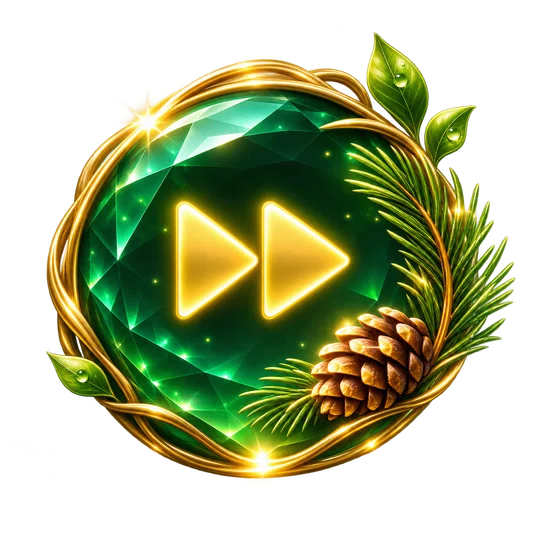
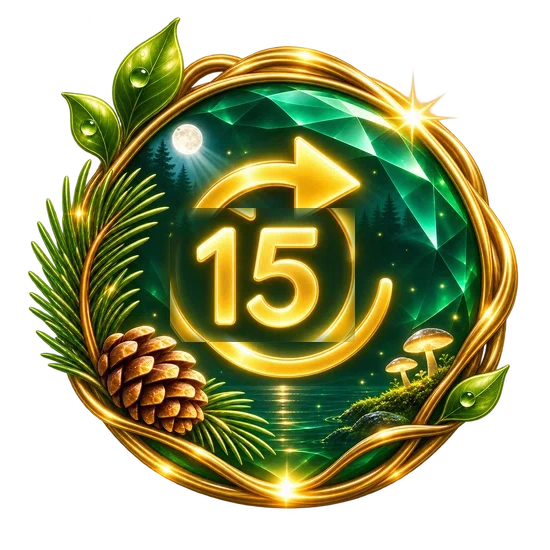
Add files via upload

diff --git a/index.html b/index.html
@@ -9,19 +9,20 @@
 <meta content="PineTree 有聲書" name="apple-mobile-web-app-title"/>
 <meta content="PineTree 有聲書 · 森夜閱讀、離線 MP3/LRC、iCloud Drive 手動同步" name="description"/>
 <link href="./manifest.webmanifest" rel="manifest"/>
-<link href="./apple-touch-icon.png?v=4310" rel="apple-touch-icon"/>
-<link href="./icon-192.png?v=4310" rel="icon"/>
-<link href="./styles.css?v=4310" rel="stylesheet"/>
-<link href="./phase3.css?v=4310" rel="stylesheet"/>
-<title>PineTree 有聲書 · v4.3.1 森夜閱讀藝術強化版</title>
+<link href="./apple-touch-icon.png?v=4320" rel="apple-touch-icon"/>
+<link href="./icon-192.png?v=4320" rel="icon"/>
+<link href="./styles.css?v=4320" rel="stylesheet"/>
+<link href="./phase3.css?v=4320" rel="stylesheet"/>
+<title>PineTree 有聲書 · v4.3.2 森夜閱讀版面與續播強化版</title>
 </head>
 <body>
 <div class="app-shell">
 <header class="topbar">
 <div class="brand">
-<div aria-hidden="true" class="brand-mark" id="brandMonogram"><img alt="" src="./apple-touch-icon.png?v=4310"/></div>
-<div class="brand-copy"><strong class="forest-brandname">PineTree <small>v4.3.1</small></strong><span>A U D I O B O O K <b>·</b> 森夜閱讀</span><strong class="visually-hidden" id="brandTitle">我的小说书库</strong></div>
+<div aria-hidden="true" class="brand-mark" id="brandMonogram"><img alt="" src="./apple-touch-icon.png?v=4320"/></div>
+<div class="brand-copy"><strong class="forest-brandname">PineTree <small>v4.3.2</small></strong><span>A U D I O B O O K <b>·</b> 森夜閱讀</span><strong class="visually-hidden" id="brandTitle">我的小说书库</strong></div>
 </div>
+<div class="forest-top-title" aria-hidden="true"><span class="forest-top-kicker">✦ P I N E T R E E ✦</span><strong>森 夜 閱 讀</strong><span class="forest-top-sub">F O R E S T · R E A D I N G</span></div>
 <nav aria-label="全局操作" class="header-actions">
 <span class="status-chip" id="networkBadge">● 准备就绪</span>
 <button aria-label="開啟森夜沉浸播放器" class="top-action im-enter-action" id="immersiveEnter" title="切換至森夜閱讀旗艦沉浸播放模式" type="button">✦ <span>森夜沉浸</span></button>
@@ -115,7 +116,7 @@
 </div>
 <div class="player-bottom">
 <div aria-hidden="true" class="theme-particles" id="themeParticles"></div>
-<div class="listen-extras"><button class="tiny-action" disabled="" id="bookmarkAdd" title="收藏目前時間及文字" type="button">收藏此句</button><button class="tiny-action" id="bookmarkOpen" title="檢視已收藏書籤" type="button">我的書籤</button><button class="tiny-action" id="sleepOpen" title="設定睡眠定時器" type="button">☾ 睡眠定時</button><button class="tiny-action" id="lockScreenOpen" title="設定鎖屏顯示資訊" type="button">🔒 鎖屏字幕 · 實驗</button><span aria-live="polite" id="sleepStatus">定時器未開啟</span></div>
+<div class="listen-extras"><button class="tiny-action" disabled="" id="bookmarkAdd" title="收藏目前時間及文字" type="button">收藏此句</button><button class="tiny-action" id="bookmarkOpen" title="檢視已收藏書籤" type="button">我的書籤</button><button class="tiny-action" id="sleepOpen" title="設定睡眠定時器" type="button">☾ 睡眠定時</button><button class="tiny-action" id="lockScreenOpen" title="設定鎖屏顯示資訊" type="button">🔒 鎖屏字幕 · 實驗</button><button class="tiny-action forest-delete-shortcut" id="forestDeleteShortcut" type="button" title="僅刪除本機目前章節" aria-label="刪除本機目前章節">⌫ 刪除本章</button><span aria-live="polite" id="sleepStatus">定時器未開啟</span></div>
 <div class="time-line"><time id="elapsed">00:00</time><span id="playStatus">等待播放</span><time id="duration">00:00</time></div>
 <input aria-label="播放进度" class="seek-bar" disabled="" id="seekBar" max="1000" min="0" step="1" type="range" value="0"/>
 <div class="playbar">
@@ -142,7 +143,7 @@
 </div>
 <div class="im-screen">
 <header class="im-topbar">
-<div class="im-brand"><img alt="" aria-hidden="true" class="im-brand-icon" src="./icon-192.png?v=4310"/><span class="im-brand-type"><b>PineTree</b><small>A U D I O B O O K</small></span></div>
+<div class="im-brand"><img alt="" aria-hidden="true" class="im-brand-icon" src="./icon-192.png?v=4320"/><span class="im-brand-type"><b>PineTree</b><small>A U D I O B O O K</small></span></div>
 <nav aria-label="沉浸頁操作" class="im-top-actions">
 <button class="im-glass im-top-button" id="imChapters" title="返回章節目錄" type="button">☷ <span>章節</span></button>
 <button class="im-glass im-top-button" id="imTheme" title="開啟外觀設定" type="button">◐ <span>外觀</span></button>
@@ -207,9 +208,9 @@
 </dialog>
 <dialog aria-label="书库管理" class="drawer-dialog" id="bookManager">
 <div class="dialog-inner">
-<div class="dialog-head"><div><span class="dialog-kicker">LIBRARY</span><h2>管理我的小说</h2><small class="version-line">PineTree v4.3.1 · 森夜閱讀 Phase 3 旗艦版</small><p>新建、切换、改名、换封面，或删除整本小说</p></div><button aria-label="关闭" class="close-action" id="bookManagerClose" type="button">×</button></div>
+<div class="dialog-head"><div><span class="dialog-kicker">LIBRARY</span><h2>管理我的小说</h2><small class="version-line">PineTree v4.3.2 · 森夜閱讀 Phase 3 旗艦版</small><p>新建、切换、改名、换封面，或删除整本小说</p></div><button aria-label="关闭" class="close-action" id="bookManagerClose" type="button">×</button></div>
 <form class="create-book" id="createBookForm"><label for="newBookName">新建小说文件夹</label><div class="form-row"><input class="field" id="newBookName" maxlength="90" placeholder="输入书名，例如：拙石衍天" required="" type="text"/><button class="btn btn-accent" type="submit">＋ 新建</button></div></form>
-<div class="manager-icloud-shortcut"><button class="btn btn-quiet" id="releaseOpen" type="button">ⓘ 版本與更新內容 · v4.3.1 極致旗艦版</button><button class="btn btn-quiet" id="cleanupOpen" type="button">▦ 清理已聽 MP3 · 釋放空間</button><button class="btn btn-quiet" id="syncOpenSecondary" type="button">☁ iCloud 同步 / 備份</button><small>MP3/LRC 仍在「檔案」App；同步檔包含書架與續聽設定</small></div>
+<div class="manager-icloud-shortcut"><button class="btn btn-quiet" id="releaseOpen" type="button">ⓘ 版本與更新內容 · v4.3.2 極致旗艦版</button><button class="btn btn-quiet" id="cleanupOpen" type="button">▦ 清理已聽 MP3 · 釋放空間</button><button class="btn btn-quiet" id="syncOpenSecondary" type="button">☁ iCloud 同步 / 備份</button><small>MP3/LRC 仍在「檔案」App；同步檔包含書架與續聽設定</small></div>
 <div class="manager-section-head"><strong>全部小说</strong><span class="counter" id="bookCount">0 本</span></div>
 <div aria-label="小说封面书架" class="book-grid" id="bookGrid"></div>
 <div class="book-detail" id="bookDetail">
@@ -279,7 +280,7 @@
 <label class="lockscreen-choice"><input checked="" name="lockScreenMode" type="radio" value="lyrics"/><span><strong>實驗性 LRC 鎖屏字幕</strong><small>有時間軸字幕時，嘗試將目前句子放在鎖屏播放器標題；第二行顯示章節。iOS 可能停更或不顯示。</small></span></label>
 <label class="lockscreen-choice"><input name="lockScreenMode" type="radio" value="standard"/><span><strong>標準章節資訊（穩定備用）</strong><small>固定顯示章節名稱、PineTree 有聲書與封面，不逐句更新。</small></span></label>
 </div>
-<div class="sync-guide"><strong>鎖屏久暫停後的續播</strong><p>已加入 Audio Session playback 模式與播放指令修復；如果 iOS 已把網頁 App 凍結或移除系統媒體工作階段，仍可能必須解鎖開啟 App。這是 iOS 限制，不會因網頁更新而保證完全解決。</p></div>
+<div class="sync-guide"><strong>鎖屏久暫停後的續播</strong><p>已改善 Media Session 播放指令、回前景恢復註冊及背景媒體資訊更新；建議優先使用「標準章節資訊」進行鎖屏續播測試。如果 iOS 已把網頁 App 凍結或移除系統媒體工作階段，仍可能必須解鎖開啟 App。這是 iOS 限制，不會因網頁更新而保證完全解決。</p></div>
 <div aria-label="鎖屏字幕更新速度" class="lockscreen-speed" role="radiogroup">
 <strong>字幕反應速度</strong>
 <div class="lockscreen-speed-options">
@@ -305,8 +306,8 @@
 <div class="import-actions"><button class="btn btn-quiet" id="cleanupPreview" type="button">重新計算</button><button class="btn btn-danger" id="cleanupRun" type="button">確認清理已聽 MP3</button></div>
 <p class="dialog-note">如果清理了 MP3，再次播放該章時需重新從 iCloud Drive 匯入對應音訊。清理操作無法在 PineTree 內撤銷。</p>
 </div></dialog>
-<dialog aria-label="版本更新與說明" class="drawer-dialog" id="releaseDialog"><div class="dialog-inner"><div class="dialog-head"><div><span class="dialog-kicker">RELEASE NOTES</span><h2>PineTree v4.3.1 · 森夜閱讀 Phase 3 旗艦版</h2><p>森夜閱讀融合旗艦版：保留原有書庫、章節列表、字幕與播放控制，同時把主工作介面升級成月夜森林沉浸式旗艦外觀。</p></div><button aria-label="關閉" class="close-action" id="releaseClose" type="button">×</button></div><div class="sync-guide"><strong>本次更新</strong><p>此版把「圖三的功能工作流」與「圖一的森夜旗艦視覺」融合：左側章節欄改成深綠玻璃書架面板，右側字幕與控制區直接融入月夜森林場景，保留原有書庫、章節搜索、批量刪除、書籤、睡眠定時、iCloud 手動同步、快速續聽與鎖屏續播修復。森夜閱讀成為桌面主介面的預設旗艦視覺，之後可再把同級融合風格擴展到其他主題。</p><p>仍以 iCloud Drive 手動匯入／匯出同步檔；iOS 系統檔案選取器及鎖屏背景播放限制依然存在。</p></div><button class="btn btn-accent" id="releaseDismiss" type="button">知道了</button></div></dialog>
+<dialog aria-label="版本更新與說明" class="drawer-dialog" id="releaseDialog"><div class="dialog-inner"><div class="dialog-head"><div><span class="dialog-kicker">RELEASE NOTES</span><h2>PineTree v4.3.2 · 森夜閱讀 Phase 3 旗艦版</h2><p>森夜閱讀融合旗艦版：保留原有書庫、章節列表、字幕與播放控制，同時把主工作介面升級成月夜森林沉浸式旗艦外觀。</p></div><button aria-label="關閉" class="close-action" id="releaseClose" type="button">×</button></div><div class="sync-guide"><strong>本次更新</strong><p>此版把「圖三的功能工作流」與「圖一的森夜旗艦視覺」融合：左側章節欄改成深綠玻璃書架面板，右側字幕與控制區直接融入月夜森林場景，保留原有書庫、章節搜索、批量刪除、書籤、睡眠定時、iCloud 手動同步、快速續聽與鎖屏續播補強（仍受 iOS 限制）。森夜閱讀成為桌面主介面的預設旗艦視覺，之後可再把同級融合風格擴展到其他主題。</p><p>仍以 iCloud Drive 手動匯入／匯出同步檔；iOS 系統檔案選取器及鎖屏背景播放限制依然存在；如鎖屏暫停後無法從系統面板續播，請改用標準章節資訊模式，必要時開啟 App 恢復。</p></div><button class="btn btn-accent" id="releaseDismiss" type="button">知道了</button></div></dialog>
 <div aria-live="polite" class="toast" id="toast" role="status"></div>
-<script defer="" src="./app.js?v=4310"></script>
+<script defer="" src="./app.js?v=4320"></script>
 </body>
 </html>

diff --git a/app.js b/app.js
@@ -57,7 +57,7 @@ const DELETED_BOOKS_KEY='pinetree-deleted-books-v33';
 const IMPORT_CHECKPOINT_KEY='pinetree-import-checkpoint-v33';
 const SETTINGS_UPDATED_KEY='pinetree-settings-updated-v33';
 const BOOKMARKS_KEY='pinetree-bookmarks-v36';
-const RELEASE_SEEN_KEY='pinetree-release-seen-v4310';
+const RELEASE_SEEN_KEY='pinetree-release-seen-v4320';
 function readBookmarks(){try{return (JSON.parse(localStorage.getItem(BOOKMARKS_KEY)||'[]')||[]).filter(x=>x&&typeof x.id==='string').slice(0,2000);}catch{return [];}}
 function writeBookmarks(items){try{localStorage.setItem(BOOKMARKS_KEY,JSON.stringify(items.slice(0,2000)));return true;}catch(error){console.warn('書籤儲存失敗',error);toast('書籤儲存失敗：本機空間可能不足');return false;}}
 
@@ -639,7 +639,7 @@ function updateMediaSession(force=false){
   try{
     navigator.mediaSession.metadata=new MediaMetadata({
       title:info.title,artist:info.artist,album:info.album,
-      artwork:url?[{src:url,type:'image/jpeg'}]:[{src:new URL('./icon-512.png?v=321',document.baseURI).href,sizes:'512x512',type:'image/png'}]
+      artwork:url?[{src:url,type:'image/jpeg'}]:[{src:new URL('./icon-512.png?v=4320',document.baseURI).href,sizes:'512x512',type:'image/png'}]
     });
     state.lockScreenMetaKey=info.key;
     state.lockScreenLastText=info.title;
@@ -650,7 +650,7 @@ function updateMediaSession(force=false){
       try{
         navigator.mediaSession.metadata=new MediaMetadata({title:state.current.name,
           artist:'PineTree 有聲書',album:info.album,
-          artwork:url?[{src:url,type:'image/jpeg'}]:[{src:new URL('./icon-512.png?v=321',document.baseURI).href,sizes:'512x512',type:'image/png'}]});
+          artwork:url?[{src:url,type:'image/jpeg'}]:[{src:new URL('./icon-512.png?v=4320',document.baseURI).href,sizes:'512x512',type:'image/png'}]});
         state.lockScreenMetaKey=info.key;
         state.lockScreenLastAt=now;
         return;
@@ -699,7 +699,22 @@ function installThemeParticles(){
   }
   host.append(frag);
 }
-function setupMediaSession(){if(!('mediaSession' in navigator))return;const handlers={play:()=>{requestPlaybackAudioSession();return startPlayback({fromLockScreen:true});},pause:()=>{audio.pause();updateMediaPosition();},previoustrack:()=>adjacentTrack(-1),nexttrack:()=>adjacentTrack(1),seekbackward:({seekOffset}={})=>skipSeconds(-(seekOffset||15)),seekforward:({seekOffset}={})=>skipSeconds(seekOffset||15),seekto:({seekTime})=>{if(Number.isFinite(seekTime))audio.currentTime=seekTime;}};for(const [action,fn]of Object.entries(handlers))try{navigator.mediaSession.setActionHandler(action,fn);}catch(_) {}}
+function playFromMediaControls(){
+  if(!state.current||!audio.src)return false;
+  requestPlaybackAudioSession();
+  try{
+    const promise=audio.play(); // Must be called directly inside the media action callback.
+    if(promise&&typeof promise.then==='function')promise.then(()=>{
+      state.mediaResumeError='';$('playStatus').textContent='正在播放';
+    }).catch(error=>{
+      console.warn('iOS/WebKit 拒絕鎖屏媒體控制續播',error);
+      state.mediaResumeError=String(error?.name||error);
+      $('playStatus').textContent='鎖屏續播受系統限制 · 請回到 App 播放';
+    });
+    return true;
+  }catch(error){state.mediaResumeError=String(error?.name||error);return false;}
+}
+function setupMediaSession(){if(!('mediaSession' in navigator))return;const handlers={play:()=>playFromMediaControls(),pause:()=>{audio.pause();updateMediaPosition();},previoustrack:()=>adjacentTrack(-1),nexttrack:()=>adjacentTrack(1),seekbackward:({seekOffset}={})=>skipSeconds(-(seekOffset||15)),seekforward:({seekOffset}={})=>skipSeconds(seekOffset||15),seekto:({seekTime})=>{if(Number.isFinite(seekTime))audio.currentTime=seekTime;}};for(const [action,fn]of Object.entries(handlers))try{navigator.mediaSession.setActionHandler(action,fn);}catch(_) {}}
 function clearCurrent(message='请选择章节'){++state.loadingToken;state.current=null;state.lockScreenMetaKey='';releaseAudio();try{if('mediaSession'in navigator)navigator.mediaSession.metadata=null;}catch(_){}state.lines=[];state.lineIndex=-1;localStorage.removeItem('lyra-last-id');$('currentBook').textContent=state.selectedBook?bookTitle(state.selectedBook):'READY TO LISTEN';$('currentTitle').textContent=message;$('chapterHint').textContent='从章节目录选择一章';$('playBtn').disabled=true;$('seekBar').disabled=true;$('deleteBtn').disabled=true;$('bookmarkAdd').disabled=true;setPlayButtonVisual(false);$('playStatus').textContent='未选章节';$('lrcState').textContent='· 暂无字幕';$('elapsed').textContent='00:00';$('duration').textContent='00:00';displayPlaceholder(message,'MP3 和 LRC 将保存在本机书库');updateStoryArt();updateBookBrand();drawChapterList();}
 async function loadTrack(track,{autoplay=false,restart=false}={}){if(!track)return;const token=++state.loadingToken;if(state.current&&state.current.id!==track.id&&!audio.ended)await saveProgress();if(token!==state.loadingToken)return;releaseAudio();state.current=track;localStorage.setItem('lyra-last-id',track.id);localStorage.setItem('lyra-last-book-track:'+track.book,track.id);$('currentBook').textContent=bookTitle(track.book);$('currentTitle').textContent=chapterDisplayName(track.name);$('chapterHint').textContent='自动保存续听进度 · 点击字幕可跳转';$('deleteBtn').disabled=false;$('bookmarkAdd').disabled=false;$('playBtn').disabled=true;$('seekBar').disabled=true;$('playStatus').textContent='读取音频中…';state.lockScreenMetaKey='';displayLyrics(track.lrcText||'');updateStoryArt();updateBookBrand();drawChapterList();if(window.matchMedia('(max-width:850px)').matches)setMobileTab('player',true);else requestAnimationFrame(scrollActiveChapter);
   try{const [stored,progress]=await Promise.all([getStore('audio',track.id),getStore('progress',track.id)]);if(token!==state.loadingToken)return;if(!stored?.blob)throw new Error('本章 MP3 已清理或未匯入；請從 iCloud Drive 重新匯入同名 MP3');const resumeAt=restart||progress?.ended?0:Math.max(0,Number(progress?.position)||0);state.fileUrl=URL.createObjectURL(stored.blob);audio.src=state.fileUrl;audio.defaultPlaybackRate=state.speed;audio.playbackRate=state.speed;audio.load();$('playBtn').disabled=false;$('seekBar').disabled=false;updateMediaSession();let restored=false;const resume=()=>{if(token!==state.loadingToken||restored)return;const d=audio.duration;if(Number.isFinite(d)&&d>0){if(resumeAt>0&&resumeAt<d-1){try{audio.currentTime=resumeAt;}catch(_) {}}restored=true;updateProgressDisplay();updateLyrics(true);updateMediaPosition();}};if(audio.readyState>=1)resume();else{audio.addEventListener('loadedmetadata',resume,{once:true});audio.addEventListener('canplay',resume,{once:true});}$('playStatus').textContent=progress?.ended?'已听完 · 从头开始':resumeAt>1?`续听 ${formatTime(resumeAt)}`:'准备播放';if(autoplay)await startPlayback();}catch(error){if(token!==state.loadingToken)return;console.error(error);$('playBtn').disabled=true;$('seekBar').disabled=true;$('playStatus').textContent='音频读取失败';toast(`播放失败：${error.message||error}`);}}
@@ -1226,6 +1241,7 @@ function setupEvents(){
   $('coverPicker').addEventListener('change',event=>setCover(event.target.files?.[0]));
   $('deleteBookBtn').addEventListener('click',deleteBook);
   $('deleteBtn').addEventListener('click',deleteCurrent);
+  $('forestDeleteShortcut').addEventListener('click',()=>{if(!$('deleteBtn').disabled)$('deleteBtn').click();});
   $('libraryJumpBtn').addEventListener('click',()=>{if(state.lyricsMax)setLyricsMax(false);setMobileTab('chapters',true);jumpToCurrent();});
   $('playBtn').addEventListener('click',()=>audio.paused?startPlayback():audio.pause());
   $('prevBtn').addEventListener('click',()=>adjacentTrack(-1));$('nextBtn').addEventListener('click',()=>adjacentTrack(1));
@@ -1264,7 +1280,7 @@ function setupEvents(){
   audio.addEventListener('ended',async()=>{if(!state.current)return;await saveProgress(true);if(state.sleepEndChapter){stopSleepTimer('本章播放完成，睡眠定時已停止');return;}const list=sortedBookTracks(state.current.book);const i=list.findIndex(x=>x.id===state.current.id);if(i>=0&&i<list.length-1)await loadTrack(list[i+1],{autoplay:true});else{$('playStatus').textContent='本书已播放完毕';drawChapterList();}});
   audio.addEventListener('error',()=>{if(state.current&&audio.src){$('playStatus').textContent='音频无法播放';toast('MP3 无法播放，请确认音频格式有效');}});
   window.addEventListener('online',updateNetwork);window.addEventListener('offline',updateNetwork);
-  document.addEventListener('visibilitychange',()=>{document.body.dataset.pageVisible=document.hidden?'false':'true';if(document.hidden){if(!audio.paused)updateMediaSession(true);saveProgress();releaseWakeLock();}else{checkSleepTimer();requestPlaybackAudioSession();requestWakeLock();updateMediaSession();refreshLockScreenControls();syncLyricsViewportPadding();updateLyrics(true);}});window.addEventListener('pagehide',()=>saveProgress());
+  document.addEventListener('visibilitychange',()=>{document.body.dataset.pageVisible=document.hidden?'false':'true';if(document.hidden){saveProgress();releaseWakeLock();}else{checkSleepTimer();requestPlaybackAudioSession();requestWakeLock();setupMediaSession();updateMediaSession();updateMediaPosition();refreshLockScreenControls();syncLyricsViewportPadding();updateLyrics(true);}});window.addEventListener('pagehide',()=>saveProgress());window.addEventListener('pageshow',()=>{requestPlaybackAudioSession();setupMediaSession();updateMediaPosition();});
   window.addEventListener('resize',()=>requestAnimationFrame(()=>{syncLyricsViewportPadding();updateLyrics(true);if(window.innerWidth>850&&!document.body.classList.contains('lyrics-maximized'))scrollActiveChapter();}));
   if(typeof ResizeObserver!=='undefined'){
     let lastHeight=0;
@@ -1398,7 +1414,7 @@ async function start(){
   registerSW();
   try{
     state.db=await openDatabase();await migrateLegacyBooks();await refreshLibrary();
-    if(localStorage.getItem(RELEASE_SEEN_KEY)!=='1'){toast('PineTree v4.3.1 森夜閱讀 Phase 3 圖標與場景升級已更新；原書庫、LRC 與播放進度保留',6500);localStorage.setItem(RELEASE_SEEN_KEY,'1');}
+    if(localStorage.getItem(RELEASE_SEEN_KEY)!=='1'){toast('PineTree v4.3.2 森夜閱讀圖標、頂部排版與鎖屏續播補強已更新；原書庫、LRC 與播放進度保留',6500);localStorage.setItem(RELEASE_SEEN_KEY,'1');}
     const interrupted=localStorage.getItem(IMPORT_CHECKPOINT_KEY);
     if(interrupted){try{const p=JSON.parse(interrupted);toast(`上次匯入可能中斷（${p.done||0}/${p.total||'?'} 組）；重新選相同文件可接續並略過已有章節`,8000);}catch{}localStorage.removeItem(IMPORT_CHECKPOINT_KEY);}
     const last=state.tracks.find(x=>x.id===localStorage.getItem('lyra-last-id'));

diff --git a/phase3.css b/phase3.css
@@ -147,3 +147,47 @@ body[data-ui-theme="forest-reading"][data-playing="false"] .forest-mist{animatio
  body[data-ui-theme="forest-reading"] .transport .control{transition:none!important}
  body[data-ui-theme="forest-reading"] .forest-orb,body[data-ui-theme="forest-reading"] .forest-mist{animation:none!important}
 }
+
+/* PineTree v4.3.2 visual/layout patch – no fake interface in the artwork. */
+.forest-top-title{display:none}
+.forest-delete-shortcut{display:none}
+body[data-ui-theme="forest-reading"] .transport .gem-skip small{display:none!important}
+/* Preserve normal click targets, moving the book-cover/deletion affordances away from the moon. */
+body[data-ui-theme="forest-reading"] .now-playing-actions{display:none!important}
+body[data-ui-theme="forest-reading"] .forest-delete-shortcut{
+  display:inline-flex!important;align-items:center;gap:4px;
+  background:linear-gradient(145deg,rgba(30,75,53,.70),rgba(5,32,26,.85));
+  border:1px solid rgba(222,203,126,.54);color:#f5dfac;
+}
+body[data-ui-theme="forest-reading"] .forest-delete-shortcut:hover{border-color:#ffe4a4;background:rgba(47,93,63,.85)}
+@media (min-width:1500px){
+ body[data-ui-theme="forest-reading"] .topbar{position:relative}
+ body[data-ui-theme="forest-reading"] .forest-top-title{
+  display:flex;position:absolute;left:50%;top:50%;transform:translate(-50%,-50%);
+  width:258px;max-width:25vw;align-items:center;flex-direction:column;justify-content:center;
+  gap:0;white-space:nowrap;pointer-events:none;z-index:2;
+  color:#ffe8a9;text-shadow:0 1px 8px #000c,0 0 16px #e7cf6b38;
+ }
+ body[data-ui-theme="forest-reading"] .forest-top-kicker{font:600 8px/1.1 Georgia,serif;letter-spacing:.22em;opacity:.83}
+ body[data-ui-theme="forest-reading"] .forest-top-title strong{font:500 22px/1.2 Georgia,'Noto Serif CJK TC','Songti TC',serif;letter-spacing:.17em}
+ body[data-ui-theme="forest-reading"] .forest-top-sub{font:500 7px/1.2 Georgia,serif;letter-spacing:.18em;opacity:.80}
+ body[data-ui-theme="forest-reading"] .forest-signature{display:none!important}
+ body[data-ui-theme="forest-reading"] .now-playing{min-height:91px!important;padding-top:7px!important;padding-bottom:7px!important}
+ body[data-ui-theme="forest-reading"] .now-playing h1{margin:4px 0!important;font-size:clamp(23px,2.0vw,35px)!important}
+ body[data-ui-theme="forest-reading"] .now-playing-text{width:100%;max-width:100%!important;}
+}
+@media (min-width:851px) and (max-width:1499px){
+ body[data-ui-theme="forest-reading"] .forest-signature{display:block!important;margin:0 auto 3px!important}
+ body[data-ui-theme="forest-reading"] .signature-top,body[data-ui-theme="forest-reading"] .signature-sub,body[data-ui-theme="forest-reading"] .signature-leaf{display:none!important}
+ body[data-ui-theme="forest-reading"] .signature-title{font-size:20px!important;line-height:1.25!important}
+ body[data-ui-theme="forest-reading"] .now-playing{min-height:112px!important;padding-bottom:8px!important}
+}
+@media (max-width:850px){
+ body[data-ui-theme="forest-reading"] .forest-signature{display:block!important;margin:0 auto 2px!important}
+ body[data-ui-theme="forest-reading"] .signature-top,body[data-ui-theme="forest-reading"] .signature-sub,body[data-ui-theme="forest-reading"] .signature-leaf{display:none!important}
+ body[data-ui-theme="forest-reading"] .signature-title{font-size:17px!important;line-height:1.1!important}
+ body[data-ui-theme="forest-reading"] .now-playing{min-height:105px!important;padding-top:5px!important}
+ body[data-ui-theme="forest-reading"] .forest-delete-shortcut{font-size:10px!important;padding:4px 7px!important}
+}
+/* Motion and focus safety for new 15-second image control. */
+@media (prefers-reduced-motion:reduce){body[data-ui-theme="forest-reading"] .transport .control{transition:none!important}}

diff --git a/sw.js b/sw.js
@@ -1,9 +1,9 @@
-/* PineTree v4.3.1 · atomic shell and locally cached Phase 3 art; original IndexedDB untouched. */
-const CACHE='lyra-shell-v4310-phase3-20261111';
+/* PineTree v4.3.2 · atomic shell and locally cached Phase 3 art; original IndexedDB untouched. */
+const CACHE='lyra-shell-v4320-phase3-20261111';
 const ASSETS=[
-  './','./index.html','./styles.css?v=4310','./phase3.css?v=4310','./app.js?v=4310',
-  './manifest.webmanifest','./icon-192.png?v=4310','./icon-512.png?v=4310',
-  './apple-touch-icon.png?v=4310',
+  './','./index.html','./styles.css?v=4320','./phase3.css?v=4320','./app.js?v=4320',
+  './manifest.webmanifest','./icon-192.png?v=4320','./icon-512.png?v=4320',
+  './apple-touch-icon.png?v=4320',
   './assets/scene-christmas.webp',
   './assets/scene-newyear.webp',
   './assets/scene-forest.webp',
